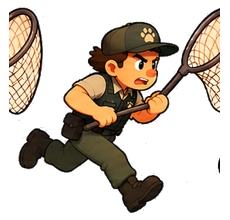
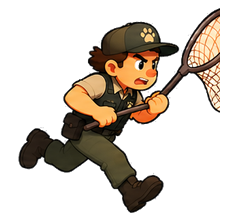
Atualiza jogo Caramelo e animacao do agente

Changed region(s): [[0.0304, 0.0273, 0.213, 0.5455], [0.9435, 0.7091, 0.9739, 0.7909]]

diff --git a/core/src/main/java/br/mackenzie/JogoScreen.java b/core/src/main/java/br/mackenzie/JogoScreen.java
@@ -60,15 +60,15 @@ public class JogoScreen implements Screen {
         // Cada grupo fica em uma faixa fixa do mapa; a tela avanca sobre o mapa.
         for (int i=0; i<quantidade; i++) {
             float y = 420 + i * (fase == 1 ? 145 : fase == 2 ? 125 : 108);
-            float[] faixas = {185, 350, 515, 680};
-            int faixa = aleatorio.nextInt(faixas.length);
             String arquivo = tipos[aleatorio.nextInt(tipos.length)];
             float w=54,h=54;
             if (arquivo.equals("tronco.png")) { w=105; h=48; }
             if (arquivo.equals("caixa.png")) { w=58; h=55; }
             if (arquivo.equals("bueiro_aberto.png")) { w=78; h=50; }
-            // Alternar faixas impede uma parede completa de obstáculos.
-            float x = faixas[faixa];
+            // A estrada e mais estreita no topo e mais larga perto do jogador.
+            float limiteEsquerdo = limiteEsquerdoEstrada(y) + 18;
+            float limiteDireito = limiteDireitoEstrada(y) - w - 18;
+            float x = limiteEsquerdo + aleatorio.nextFloat() * Math.max(1, limiteDireito - limiteEsquerdo);
             obstaculos.add(new Obstaculo(arquivo, x, y, w, h));
             posicoesObstaculos.add(y);
             obstaculosEncontrados++;
@@ -80,13 +80,17 @@ public class JogoScreen implements Screen {
         desenhar(); tratarInterface();
     }
     private void atualizar(float delta) {
+        caramelo.atualizar(delta);
         if (Gdx.input.isKeyPressed(Input.Keys.LEFT)) caramelo.moverPara(caramelo.getSprite().getX()-260*delta);
         if (Gdx.input.isKeyPressed(Input.Keys.RIGHT)) caramelo.moverPara(caramelo.getSprite().getX()+260*delta);
         invulneravel=Math.max(0,invulneravel-delta);
         progresso += configuracao.getVelocidade()*delta*0.55f;
         agente.atualizar(delta,fase);
         tempoOssinho += delta;
-        if (tempoOssinho > 4f) { ossinhos.add(new Coletavel(100+aleatorio.nextInt(730), altura+progresso+30)); tempoOssinho=0; }
+        if (tempoOssinho > 4f) {
+            criarOssinhoSemObstaculo();
+            tempoOssinho=0;
+        }
         for (int i=obstaculos.size()-1;i>=0;i--) {
             Obstaculo o=obstaculos.get(i); float y=o.getPosicaoOriginalY()-progresso;
             o.getSprite().setY(y);
@@ -105,12 +109,63 @@ public class JogoScreen implements Screen {
             if (fase<3) { fase++; carregarFase(); } else estado="conclusao";
         }
     }
+    // Limites aproximados da estrada na imagem parada, conforme a perspectiva.
+    private float limiteEsquerdoEstrada(float y) {
+        float proporcao = Math.max(0, Math.min(1, y / altura));
+        return 170 + 180 * proporcao;
+    }
+    private float limiteDireitoEstrada(float y) {
+        float proporcao = Math.max(0, Math.min(1, y / altura));
+        return 820 - 180 * proporcao;
+    }
+    private void criarOssinhoSemObstaculo() {
+        float y = altura + progresso + 30;
+        float larguraOssinho = 28;
+        float minimoX = limiteEsquerdoEstrada(altura - 10) + 20;
+        float maximoX = limiteDireitoEstrada(altura - 10) - larguraOssinho - 20;
+        for (int tentativa = 0; tentativa < 20; tentativa++) {
+            float x = minimoX + aleatorio.nextFloat() * Math.max(1, maximoX - minimoX);
+            boolean livre = true;
+            // Compara as areas no mapa, antes de criar o ossinho.
+            Rectangle areaOssinho = new Rectangle(x, y, larguraOssinho, larguraOssinho);
+            for (Obstaculo obstaculo : obstaculos) {
+                Rectangle areaObstaculo = new Rectangle(
+                    obstaculo.getSprite().getX(),
+                    obstaculo.getPosicaoOriginalY(),
+                    obstaculo.getSprite().getWidth(),
+                    obstaculo.getSprite().getHeight()
+                );
+                // Deixa uma margem extra para o ossinho nao ficar escondido atras do obstaculo.
+                areaObstaculo.set(areaObstaculo.x - 24, areaObstaculo.y - 42,
+                    areaObstaculo.width + 48, areaObstaculo.height + 84);
+                if (areaOssinho.overlaps(areaObstaculo)) {
+                    livre = false;
+                    break;
+                }
+            }
+            for (Coletavel existente : ossinhos) {
+                Rectangle areaExistente = existente.getSprite().getBoundingRectangle();
+                areaExistente.set(areaExistente.x - 18, areaExistente.y - 35,
+                    areaExistente.width + 36, areaExistente.height + 70);
+                if (areaOssinho.overlaps(areaExistente)) {
+                    livre = false;
+                    break;
+                }
+            }
+            if (livre) {
+                ossinhos.add(new Coletavel(x, y));
+                return;
+            }
+        }
+        // Se nao houver espaco seguro, pula esta geracao em vez de esconder o ossinho.
+    }
+
     private void desenhar() {
         Gdx.gl.glClearColor(0.95f,0.89f,0.78f,1); Gdx.gl.glClear(GL20.GL_COLOR_BUFFER_BIT);
         lote.begin();
         if (fundo!=null) {
-            // O fundo e uma imagem vertical unica para evitar a emenda no meio da tela.
-            lote.draw(fundo, 0, -progresso, largura, fundo.getHeight());
+            // O fundo fica parado durante toda a fase.
+            lote.draw(fundo, 0, 0, largura, altura);
         }
         for (Obstaculo o:obstaculos) if (o.getSprite().getY()>-100 && o.getSprite().getY()<altura+80) o.getSprite().draw(lote);
         for (Coletavel o:ossinhos) o.getSprite().draw(lote);

diff --git a/core/src/main/java/br/mackenzie/Caramelo.java b/core/src/main/java/br/mackenzie/Caramelo.java
@@ -4,21 +4,38 @@ import com.badlogic.gdx.graphics.Texture;
 import com.badlogic.gdx.graphics.g2d.Sprite;
 
 public class Caramelo {
-    private final Texture textura;
+    private final Texture textura1;
+    private final Texture textura2;
     private final Sprite sprite;
+    private float tempoAnimacao = 0;
+    private boolean segundoQuadro = false;
 
     public Caramelo() {
-        textura = new Texture("caramelo.png");
-        sprite = new Sprite(textura);
-        sprite.setSize(100, 75);
-        sprite.setPosition(430, 85);
+        textura1 = new Texture("caramelo_correndo_1.png");
+        textura2 = new Texture("caramelo_correndo_2.png");
+        sprite = new Sprite(textura1);
+        sprite.setSize(85, 106);
+        sprite.setPosition(430, 65);
     }
 
     public Sprite getSprite() { return sprite; }
 
-    public void moverPara(float posicaoX) {
-        sprite.setX(Math.max(80, Math.min(780, posicaoX)));
+    public void atualizar(float delta) {
+        tempoAnimacao += delta;
+        if (tempoAnimacao >= 0.22f) {
+            tempoAnimacao = 0;
+            segundoQuadro = !segundoQuadro;
+            sprite.setTexture(segundoQuadro ? textura2 : textura1);
+        }
     }
 
-    public void dispose() { textura.dispose(); }
+    public void moverPara(float posicaoX) {
+        // Mantem o cachorro dentro dos limites da estrada.
+        sprite.setX(Math.max(190, Math.min(675, posicaoX)));
+    }
+
+    public void dispose() {
+        textura1.dispose();
+        textura2.dispose();
+    }
 }

diff --git a/core/src/main/java/br/mackenzie/AgenteCaptura.java b/core/src/main/java/br/mackenzie/AgenteCaptura.java
@@ -18,7 +18,7 @@ public class AgenteCaptura {
 
     public AgenteCaptura() {
         Array<TextureRegion> quadros = new Array<TextureRegion>();
-        for (int i = 1; i <= 7; i++) {
+        for (int i = 4; i <= 6; i++) {
             Texture textura = new Texture("agente/correndo_direita_" + i + ".png");
             textura.setFilter(Texture.TextureFilter.Linear, Texture.TextureFilter.Linear);
             texturas.add(textura);
@@ -37,13 +37,19 @@ public class AgenteCaptura {
                 ativo = true;
                 direita = Math.random() >= 0.5;
                 velocidadeX = (direita ? 1 : -1) * (220 + fase * 35);
-                sprite.setX(direita ? -160 : 970);
+                sprite.setX(direita ? 245 : 670);
                 sprite.setY(250 + (float)Math.random() * 260);
                 espera = Math.max(2.5f, 7f - fase * 1.2f) + (float)Math.random() * 3f;
             }
         } else {
             sprite.setX(sprite.getX() + velocidadeX * delta);
-            if ((velocidadeX > 0 && sprite.getX() > 980) || (velocidadeX < 0 && sprite.getX() < -180)) ativo = false;
+            if (velocidadeX > 0 && sprite.getX() + sprite.getWidth() >= 700) {
+                sprite.setX(700 - sprite.getWidth());
+                ativo = false;
+            } else if (velocidadeX < 0 && sprite.getX() <= 235) {
+                sprite.setX(235);
+                ativo = false;
+            }
         }
     }
 

diff --git a/core/src/main/java/br/mackenzie/Fase1.java b/core/src/main/java/br/mackenzie/Fase1.java
@@ -12,22 +12,19 @@ public class Fase1 implements ConfiguracaoFase {
         return 250f;
     }
 
-    @Override
     public float getDistanciaNecessaria() {
         return 3000f;
     }
 
-    @Override
     public Obstaculo[] criarCones() {
         return new Obstaculo[] {
-            new Obstaculo(800, 80),
-            new Obstaculo(1300, 80),
-            new Obstaculo(1900, 80),
-            new Obstaculo(2500, 80)
+            new Obstaculo("cone.png", 800, 80, 54, 54),
+            new Obstaculo("cone.png", 1300, 80, 54, 54),
+            new Obstaculo("cone.png", 1900, 80, 54, 54),
+            new Obstaculo("cone.png", 2500, 80, 54, 54)
         };
     }
 
-    @Override
     public Coletavel[] criarOssinhos() {
         return new Coletavel[] {
             new Coletavel(500, 120),
@@ -39,7 +36,6 @@ public class Fase1 implements ConfiguracaoFase {
         };
     }
 
-    @Override
     public void reiniciarObjetos(Obstaculo[] cones, Coletavel[] ossinhos) {
         float[] posicoesCones = {800, 1300, 1900, 2500};
         for (int i = 0; i < cones.length; i++) {
@@ -51,5 +47,9 @@ public class Fase1 implements ConfiguracaoFase {
         for (int i = 0; i < ossinhos.length; i++) {
             ossinhos[i].getSprite().setPosition(posicoesX[i], posicoesY[i]);
         }
+    }
+    @Override
+    public String[] getTiposObstaculos() {
+        return new String[] {"cone.png"};
     }
 }

diff --git a/core/src/main/java/br/mackenzie/Fase2.java b/core/src/main/java/br/mackenzie/Fase2.java
@@ -12,22 +12,19 @@ public class Fase2 implements ConfiguracaoFase {
         return 300f;
     }
 
-    @Override
     public float getDistanciaNecessaria() {
         return 3000f;
     }
 
-    @Override
     public Obstaculo[] criarCones() {
         return new Obstaculo[] {
-            new Obstaculo(800, 80),
-            new Obstaculo(1300, 80),
-            new Obstaculo(1900, 80),
-            new Obstaculo(2500, 80)
+            new Obstaculo("cone.png", 800, 80, 54, 54),
+            new Obstaculo("cone.png", 1300, 80, 54, 54),
+            new Obstaculo("cone.png", 1900, 80, 54, 54),
+            new Obstaculo("cone.png", 2500, 80, 54, 54)
         };
     }
 
-    @Override
     public Coletavel[] criarOssinhos() {
         return new Coletavel[] {
             new Coletavel(500, 120),
@@ -39,7 +36,6 @@ public class Fase2 implements ConfiguracaoFase {
         };
     }
 
-    @Override
     public void reiniciarObjetos(Obstaculo[] cones, Coletavel[] ossinhos) {
         float[] posicoesCones = {800, 1300, 1900, 2500};
         for (int i = 0; i < cones.length; i++) {
@@ -51,5 +47,9 @@ public class Fase2 implements ConfiguracaoFase {
         for (int i = 0; i < ossinhos.length; i++) {
             ossinhos[i].getSprite().setPosition(posicoesX[i], posicoesY[i]);
         }
+    }
+    @Override
+    public String[] getTiposObstaculos() {
+        return new String[] {"cone.png"};
     }
 }

diff --git a/core/src/main/java/br/mackenzie/Fase3.java b/core/src/main/java/br/mackenzie/Fase3.java
@@ -12,22 +12,19 @@ public class Fase3 implements ConfiguracaoFase {
         return 350f;
     }
 
-    @Override
     public float getDistanciaNecessaria() {
         return 3000f;
     }
 
-    @Override
     public Obstaculo[] criarCones() {
         return new Obstaculo[] {
-            new Obstaculo(800, 80),
-            new Obstaculo(1300, 80),
-            new Obstaculo(1900, 80),
-            new Obstaculo(2500, 80)
+            new Obstaculo("cone.png", 800, 80, 54, 54),
+            new Obstaculo("cone.png", 1300, 80, 54, 54),
+            new Obstaculo("cone.png", 1900, 80, 54, 54),
+            new Obstaculo("cone.png", 2500, 80, 54, 54)
         };
     }
 
-    @Override
     public Coletavel[] criarOssinhos() {
         return new Coletavel[] {
             new Coletavel(500, 120),
@@ -39,7 +36,6 @@ public class Fase3 implements ConfiguracaoFase {
         };
     }
 
-    @Override
     public void reiniciarObjetos(Obstaculo[] cones, Coletavel[] ossinhos) {
         float[] posicoesCones = {800, 1300, 1900, 2500};
         for (int i = 0; i < cones.length; i++) {
@@ -51,5 +47,9 @@ public class Fase3 implements ConfiguracaoFase {
         for (int i = 0; i < ossinhos.length; i++) {
             ossinhos[i].getSprite().setPosition(posicoesX[i], posicoesY[i]);
         }
+    }
+    @Override
+    public String[] getTiposObstaculos() {
+        return new String[] {"cone.png"};
     }
 }
